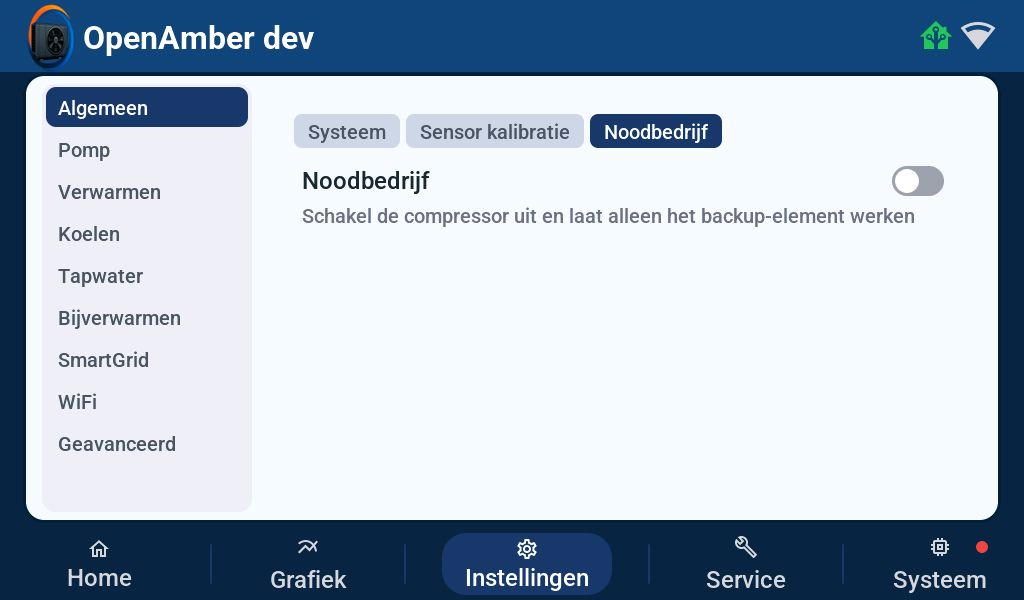
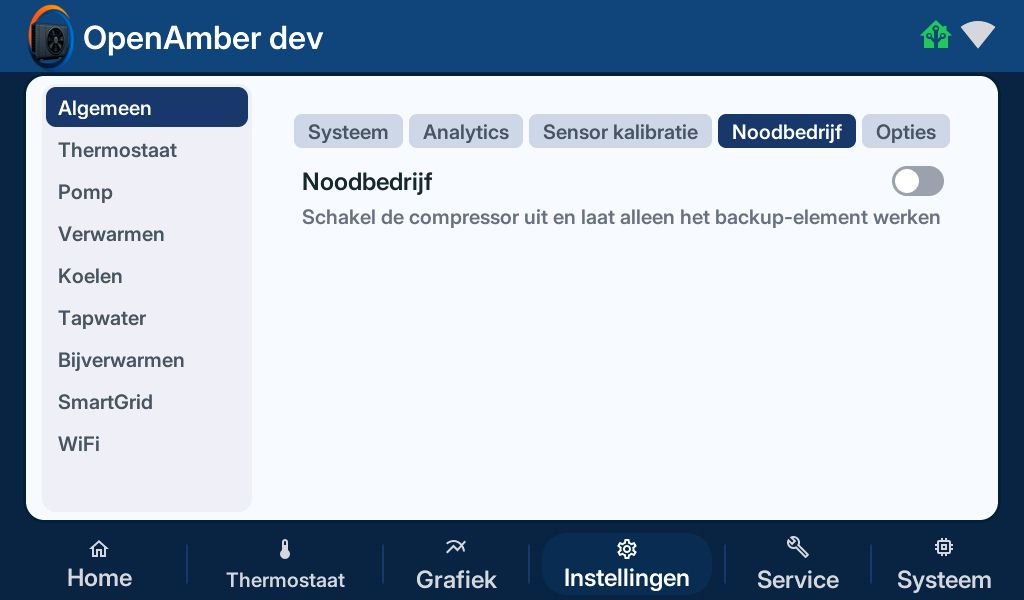
Updated docs

diff --git a/docs/.vuepress/styles/index.scss b/docs/.vuepress/styles/index.scss
@@ -1,0 +1,25 @@
+.vp-home {
+  display: flex;
+  flex-direction: column;
+}
+
+.vp-home > [vp-content] {
+  order: 2;
+  width: 100%;
+  max-width: 720px;
+  margin: 1rem auto 3rem;
+
+  p {
+    margin: 0;
+  }
+
+  img {
+    display: block;
+    width: 100%;
+    height: auto;
+  }
+}
+
+.vp-home > .vp-features {
+  order: 3;
+}

diff --git a/docs/configuratie-verwarmen.md b/docs/configuratie-verwarmen.md
@@ -6,34 +6,27 @@ title: Verwarmen
 
 Alle instellingen op deze pagina zijn ook via Home Assistant aanpasbaar.
 
-## Werkwijze voor veilig inregelen
-
-Pas verwarmingsinstellingen in deze volgorde aan:
-
-1. Modus kiezen (`select.heat_mode_select`).
-2. Start en stop delta stabiel krijgen.
-3. Vermogensmodus afstemmen.
-4. Pas daarna stooklijnpunten tunen.
-
-Tip: verander bij voorkeur steeds 1 instelling tegelijk en evalueer minimaal een halve dag tot een hele dag.
-
 ## Categorie: Algemeen
 
 ![Verwarmen algemeen](/images/instellingen-verwarmen-algemeen.jpg)
 
 | Setting | Home Assistant entiteit | Functie |
 | --- | --- | --- |
-| Handmatig setpoint | `number.manual_setpoint` | Doeltemperatuur voor modus waarin niet op stooklijn maar op vast setpoint geregeld wordt. Bij testbedrijf, afwijkende comfortwens of tijdelijk gedrag buiten normale stooklijn. Gebruik als tijdelijke override, niet als permanente vervanging van goed ingestelde stooklijn. Te hoog setpoint verlaagt COP en vergroot kans op pendelen. |
-| Verwarmingsmodus | `select.heat_mode_select` | Schakelt tussen sturing op stooklijn of extern setpoint. Bij integratie met externe regeling of specifieke stooklijnstrategie. Kies stooklijn voor weersafhankelijke basisregeling. Verkeerde modus kan onlogisch gedrag geven tussen thermostaatvraag en aanvoertemperatuur. |
-| Compressor vermogensmodus verwarmen | `select.heat_compressor_mode` | Begrenst of verruimt het beschikbare compressorvermogensbereik tijdens verwarmen. Bij geluidseisen, netbelasting, comfortproblemen of optimalisatie op deellast. Start middengebied; alleen verhogen bij onvoldoende vermogen. Te laag kan tekort aan verwarmingsvermogen geven, te hoog kan efficientie drukken bij deellast. |
+| Verwarmingsmodus | `select.heat_mode_select` | Schakelt tussen sturing op stooklijn of extern setpoint. Bij integratie met externe regeling of specifieke stooklijnstrategie. Kies stooklijn voor weersafhankelijke basisregeling. |
+| Extern setpoint | `number.manual_setpoint` | Doeltemperatuur voor modus waarin niet op stooklijn maar op vast setpoint geregeld wordt. Bij testbedrijf, afwijkende comfortwens of tijdelijk gedrag buiten normale stooklijn. Gebruik als tijdelijke override, niet als permanente vervanging van goed ingestelde stooklijn. Te hoog setpoint verlaagt COP en vergroot kans op pendelen. |
+| Verwarmen vermogen | `select.heat_compressor_mode` | Begrenst de maximale stand van de compressor tijdens verwarmen. |
 
-### Opties en bereiken
+## Categorie: Stooklijn
 
-| Setting | Entiteit | Beschikbare waarden |
+![Verwarmen stooklijn](/images/instellingen-verwarmen-stooklijn.jpg)
+
+| Setting | Home Assistant entiteit | Functie |
 | --- | --- | --- |
-| Verwarmingsmodus | `select.heat_mode_select` | `Stooklijn`, `Extern setpoint` |
-| Handmatig setpoint | `number.manual_setpoint` | 15 tot 45 C, stap 1 C |
-| Verwarmen vermogen | `select.heat_compressor_mode` | `Beperkt`, `Zeer laag`, `Laag`, `Gemiddeld`, `Verhoogd`, `Hoog`, `Maximaal` |
+| Stooklijnpunt bij -10 C | `number.heat_curve_m10` | Water doeltemperatuur bij -10 of lagere buitentemperatuur. |
+| Stooklijnpunt bij 0 C | `number.heat_curve_0` | Water doeltemperatuur bij 0 of lagere buitentemperatuur. |
+| Stooklijnpunt bij +5 C | `number.heat_curve_p5` |Water doeltemperatuur bij 5 of lagere buitentemperatuur. |
+| Stooklijnpunt bij +10 C | `number.heat_curve_p10` | Water doeltemperatuur bij 10 of lagere buitentemperatuur. |
+| Stooklijnpunt bij +15 C | `number.heat_curve_p15` | Water doeltemperatuur vanaf 15 graden buiten temperatuur. |
 
 ## Categorie: Start/Stop
 
@@ -43,44 +36,4 @@ Tip: verander bij voorkeur steeds 1 instelling tegelijk en evalueer minimaal een
 | --- | --- | --- |
 | Start delta | `number.compressor_start_delta` | Bepaalt hoeveel de temperatuur onder de doelwaarde mag zakken voordat compressorstart wordt toegestaan. Bij te vaak starten of juist te traag reageren op warmtevraag. Kleinere waarde = sneller starten; grotere waarde = rustiger gedrag. Te laag geeft pendelen en meer starts; te hoog geeft traag comfortherstel. |
 | Stop delta | `number.compressor_stop_delta` | Bepaalt overshoot boven setpoint waarbij compressor mag stoppen. Bij doorschieten van aanvoertemperatuur of te lange compressorlooptijden. Begin conservatief en wijzig in kleine stappen. Te laag veroorzaakt korte cycli; te hoog veroorzaakt overshoot en minder comfort. |
-
-### Bereik start/stop
-
-| Setting | Entiteit | Beschikbare waarden |
-| --- | --- | --- |
-| Start delta | `number.compressor_start_delta` | 0.1 tot 10.0 C, stap 0.1 C |
-| Stop delta | `number.compressor_stop_delta` | 0.1 tot 10.0 C, stap 0.1 C |
-
-Belangrijk voor Home Assistant automations:
-
-1. `number.manual_setpoint` is alleen functioneel als `select.heat_mode_select` op `Extern setpoint` staat.
-2. Bij `Stooklijn` wordt de aanvoer bepaald door de curvepunten.
-
-## Categorie: Stooklijn
-
-![Verwarmen stooklijn](/images/instellingen-verwarmen-stooklijn.jpg)
-
-| Setting | Home Assistant entiteit | Functie |
-| --- | --- | --- |
-| Stooklijnpunt bij -10 C | `number.heat_curve_m10` | Definieert gewenste aanvoertemperatuur rond lage buitentemperatuur. Bij comforttekort tijdens vorst of te hoge aanvoer in koude omstandigheden. Kleine wijzigingen, daarna minimaal enkele koude uren evalueren. Te hoog verlaagt rendement; te laag geeft onderverwarming bij kou. |
-| Stooklijnpunt bij 0 C | `number.heat_curve_0` | Definieert gewenst aanvoerniveau rond buitentemperatuur van 0 C. Bij structurele afwijking in comfort in herfst/winter overgangen. Stem af op emittertype (vloerverwarming meestal lagere curve). Onbalans tussen curvepunten kan instabiele regeling of abrupte vermogenswisselingen geven. |
-| Stooklijnpunt bij +5 C | `number.heat_curve_p5` | Regelt aanvoer rond milde buitentemperaturen. Belangrijk voor comfort in voor- en najaar. Te hoog geeft onnodig warm stoken; te laag geeft trage opwarming van ruimtes. |
-| Stooklijnpunt bij +10 C | `number.heat_curve_p10` | Stuurt lage-last gebied van de stooklijn. Nuttig om pendelen in zachte dagen te beperken. Te hoge waarde verlaagt COP; te lage waarde kan comfortdip geven. |
-| Stooklijnpunt bij +15 C | `number.heat_curve_p15` | Stuurt bijna-grensgebied van verwarmingsbedrijf. Helpt bij rustig afbouwen richting geen warmtevraag. Te hoog kan leiden tot onnodig doordraaien op zachte dagen. |
-
-### Bereik stooklijnpunten
-
-Alle stooklijnpunten hebben bereik 15 tot 45 C met stap 1 C.
-
-Aanbevolen aanpak:
-
-1. Begin met een vloeiende, dalende lijn van -10 naar +15 C.
-2. Corrigeer eerst middengebied (0, +5, +10 C) voor dagelijks comfort.
-3. Corrigeer daarna randen (-10 en +15 C) voor extremen.
-
-## Categorie: PID Control
-
-PID-instellingen voor verwarmen staan in de geavanceerde pagina: [Geavanceerd](./configuratie-geavanceerd.html#categorie-pid-control-verwarmen).
-
-
 

diff --git a/docs/configuratie-algemeen.md b/docs/configuratie-algemeen.md
@@ -8,21 +8,35 @@ Alle instellingen op deze pagina zijn ook via Home Assistant aanpasbaar.
 
 ## Categorie: Systeem
 
-![Systeem](/images/instellingen-algmeen-algemeen.jpg)
+![Systeem](/images/instellingen-algmeen-systeem.jpg)
 
 | Setting | Home Assistant entiteit | Functie |
 | --- | --- | --- |
 | Tapwater aanwezig | `switch.dhw_enabled_switch` | Activeert of de installatie tapwaterlogica en gerelateerde tabs gebruikt. Alleen bij installaties zonder actief tapwatercircuit of tijdens diagnose. Aan voor systemen met boilervat/tapwaterfunctie. Uitzetten op een actief tapwatersysteem schakelt DHW-regeling uit. |
+| Regeltemperatuur bron | `select.heat_cool_control_temperature_source_select` | Selecteert de temperatuursensor welke gebruikt wordt door de PID controller om de doeltemperatuur op te regelen, bijvoorbeeld Tc of Tv1. |
+| Geavanceerde instellingen | `switch.advanced_settings_enabled` | Maakt gevanceerde instellingen zichtbaar in het instellingen menu. |
 | Analytics ingeschakeld | `switch.analytics_enabled_switch` | Als je dit inschakelt, wordt elke 5 minuten diagnose-data naar [https://openamber.nl/devices](https://openamber.nl/devices) verstuurd. Deze data is anoniem en wordt gebruikt om inzicht te geven in alle OpenAmber-gebruikers die analytics hebben ingeschakeld. |
+
+## Categorie: Analytics
+
+![Systeem](/images/instellingen-algmeen-analytics.jpg)
+
+| Setting | Home Assistant entiteit | Functie |
+| --- | --- | --- |
+| Analytics versturen | `switch.analytics_enabled_switch` | Als je dit inschakelt, wordt elke 5 minuten diagnose-data naar [https://openamber.nl/devices](https://openamber.nl/devices) verstuurd. Deze data is anoniem en wordt gebruikt om inzicht te geven in alle OpenAmber-gebruikers die analytics hebben ingeschakeld. |
 
 ## Categorie: Sensor kalibratie
 
-![Sensor kalibratie](/images/instellingen-sensor-kalibratie.jpg)
+![Sensor kalibratie](/images/instellingen-algemeen-sensor-kalibratie-1.jpg)
+![Sensor kalibratie](/images/instellingen-algemeen-sensor-kalibratie-2.jpg)
 
 | Setting | Home Assistant entiteit | Functie |
 | --- | --- | --- |
 | Ruimtetemperatuur offset | `number.tr_offset` | Corrigeert de gemeten ruimtetemperatuur (Tr) met een vaste offset. Als de gemeten waarde in OpenAmber structureel afwijkt van een betrouwbare referentiesensor. Start met kleine stappen van 0.1 C en controleer gedurende minimaal 24 uur. Te grote offset veroorzaakt foutieve warmtevraag, pendelgedrag of comfortklachten. |
 | Tapwatertemperatuur offset | `number.tw_offset` | Corrigeert de tapwatertemperatuurmeting (Tw) met een vaste offset. Bij consistente afwijking tussen OpenAmber en externe meting aan buffervat of leiding. Verander in kleine stappen en beoordeel na een volledige opwarmcyclus. Onjuiste offset kan leiden tot te heet of te koud tapwater en onnodig energieverbruik. |
+| CV-aanvoertemperatuur offset | `number.tc_offset` | Corrigeert de CV-aanvoertemperatuur sensor (Tc) met een vaste offset. |
+| CV-retourtemperatuur (Tui) offset | `number.tui_offset` | Corrigeert de CV-retourtemperatuur (Tui) in de buiten unit met een vaste offset. |
+| CV-aanvoertemperatuur (Tuo) offset | `number.tuo_offset` | Corrigeert de CV-aanvoertemperatuur (Tuo) in de buiten unit met een vaste offset. |
 
 ## Categorie: Noodbedrijf
 
@@ -32,6 +46,12 @@ Alle instellingen op deze pagina zijn ook via Home Assistant aanpasbaar.
 | --- | --- | --- |
 | Noodbedrijf inschakelen | `switch.emergency_mode_enabled` | Schakelt compressorlogica uit en laat systeem op back-upstrategie draaien. Alleen bij storingen, testwerk of tijdelijk bedrijf zonder normale compressoraansturing. Normaal uit laten. Alleen handmatig inschakelen bij duidelijke aanleiding. Hogere energiekosten, lagere efficiÃ«ntie en mogelijk minder stabiele regeling. |
 
+## Categorie: Opties
 
+![Noodbedrijf](/images/instellingen-algemeen-opties.jpg)
 
+| Setting | Home Assistant entiteit | Functie |
+| --- | --- | --- |
+| Flow sensor aanwezig | `switch.flow_sensor_enabled` | Schakelt het uitlezen van de flow sensor in voor energie berekeningen. Om dit te gebruiken is een aangesloten flow sensor nodig, zie pagina TODO. |
+| Flow sensor kalibratie | `number.flow_sensor_calibration` | Kalibratie waarde voor het uitlezen van de flow sensor, afhankelijk van de aangesloten pulse sensor. |
 

diff --git a/README.md b/README.md
@@ -1,0 +1,106 @@
+<p align="center">
+  <img src="docs/.vuepress/public/images/logo-512x512.png" alt="OpenAmber Logo" width="128" height="128" />
+</p>
+
+<h1 align="center">OpenAmber Documentatie</h1>
+
+<p align="center">
+  De officiële documentatiebron voor <strong>OpenAmber</strong> — de moderne open-source vervanger voor de verouderde WinCE controller in Itho Daalderop Amber warmtepompen.
+</p>
+
+<p align="center">
+  <a href="https://openamber.nl"><strong>openamber.nl »</strong></a>
+  <br />
+  <a href="https://openamber.nl/devices">Dashboard</a>
+  ·
+  <a href="#-lokaal-ontwikkelen">Lokaal ontwikkelen</a>
+  ·
+  <a href="#-bijdragen">Bijdragen</a>
+</p>
+
+---
+
+## 📖 Over OpenAmber
+
+OpenAmber vervangt het trage en gesloten WinCE display van de Itho Daalderop Amber warmtepomp door een moderne ESP32 microcontroller, aangedreven door ESPHome. Hiermee krijg je volledige controle, superieure modulatie en naadloze monitoring.
+
+- ⚙ **Moderne ESP32 controller:** Gebaseerd op ESPHome met snelle respons en stabiele communicatie.
+- 🏠 **Home Assistant:** Directe en diepe integratie met Home Assistant via de native ESPHome API.
+- 📈 **Vergroot modulatiebereik:** Stabieler moduleren en efficiënter draaien in deellast.
+- 📊 **PID Compressor Modulatie:** Geavanceerde aansturing voor optimaal seizoensrendement.
+- ❄ **Intelligente defrost herstel:** Geoptimaliseerde logica na ontdooicycli met instelbare boost.
+- 🔓 **100% Open Source:** Volledig transparant onder de GNU General Public License v3.
+
+<p align="center">
+  <img src="docs/.vuepress/public/images/home.jpg" alt="OpenAmber Interface" width="700" />
+</p>
+
+---
+
+## 🛠 Lokaal ontwikkelen
+
+Deze documentatie is gebouwd met [VuePress v2](https://v2.vuepress.vuejs.org/) en Vite.
+
+### Vereisten
+
+- [Node.js](https://nodejs.org/) (versie 18 of hoger)
+- [npm](https://www.npmjs.com/)
+
+### Starten van de ontwikkelserver
+
+1. Clone de repository:
+   ```bash
+   git clone https://github.com/Jordi1990/openamber-docs.git
+   cd openamber-docs
+   ```
+
+2. Installeer de benodigde packages:
+   ```bash
+   npm install
+   ```
+
+3. Start de lokale ontwikkelserver:
+   ```bash
+   npm run docs:dev
+   ```
+   Open vervolgens je browser op `http://localhost:8080`.
+
+4. Documentatie bouwen voor productie:
+   ```bash
+   npm run docs:build
+   ```
+   De gegenereerde statische bestanden worden opgeslagen in `docs/.vuepress/dist/`.
+
+---
+
+## 📂 Projectstructuur
+
+```text
+openamber-docs/
+├── .github/workflows/    # GitHub Actions (automatische deployment naar gh-pages)
+├── docs/                 # Documentatie bronbestanden (Markdown)
+│   ├── .vuepress/        # VuePress configuratie, thema en statische assets
+│   ├── installatie/      # Installatiehandleidingen
+│   ├── index.md          # Homepage van de documentatiewebsite
+│   └── ...               # Overige documentatiepagina's
+├── package.json          # Scripts en dependencies
+└── README.md             # Deze GitHub repository landingspagina
+```
+
+---
+
+## 🤝 Bijdragen
+
+Verbeteringen aan teksten, ontbrekende handleidingen of aanvullingen zijn van harte welkom!
+
+1. Fork de repository.
+2. Maak een feature branch aan (`git checkout -b feature/nieuwe-pagina`).
+3. Commit je wijzigingen (`git commit -m 'Voeg uitleg toe over ...'`).
+4. Push naar je branch (`git push origin feature/nieuwe-pagina`).
+5. Open een **Pull Request**.
+
+---
+
+## 📄 Licentie
+
+Gedistribueerd onder de **GNU General Public License v3 (GPL-3.0)**. Zie [`LICENSE`](file:///g:/openamber-docs/LICENSE) voor meer informatie.

diff --git a/docs/index.md b/docs/index.md
@@ -29,3 +29,7 @@ features:
   - title: ❄ Intelligente defrost herstel
     details: Verbeterde logica voor temperatuurherstel na ontdooien, met optionele boost functie voor sneller comfort
 
+---
+
+![OpenAmber home scherm](/images/home.jpg)
+
